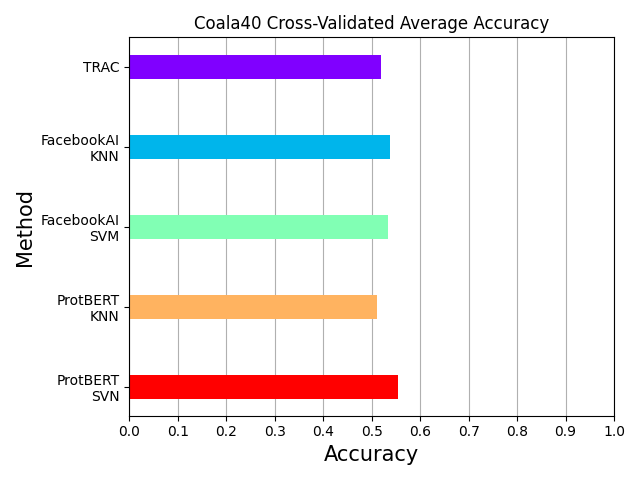
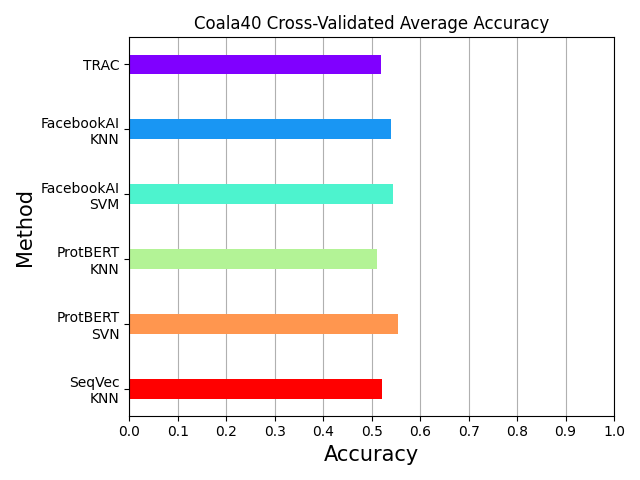
Adds evaluation script for the SeqVec model embeddings
-Updates FacebookAI script with minor adjustments
-Updates results document with most up-to-date evaluations
-Updates plots in the 'out' directory to include SeqVec data

diff --git a/seqvec/seqvec_embeddings_evaluation.py b/seqvec/seqvec_embeddings_evaluation.py
@@ -1,9 +1,7 @@
 #Code adapted from https://github.com/facebookresearch/esm/blob/master/examples/variant_prediction.ipynb
 # & https://github.com/nafizh/TRAC/blob/master/utils.py
 
-# This file runs 2 classifiers using the embeddings from the Facebook AI paper: ESM
-# The classifiers are sent through a grid search for the best model parameters and then 
-# passed through a 10-fold cross-validator with fold data printed out to the terminal
+# This file runs 2 classifiers using the embeddings from the SeqVec paper
 
 # CJ
 
@@ -89,17 +87,23 @@ ab_res_class_dict = {0:'BETA-LACTAM', 1:'AMINOGLYCOSIDE', 2:'TETRACYCLINE', 3:'G
                      4:'PHENICOL', 5:'FOLATE-SYNTHESIS-INHABITOR', 6:'RIFAMYCIN', 7:'TRIMETHOPRIM', 
                      8:'SULFONAMIDE', 9:'MACROLIDE', 10:'FOSFOMYCIN', 11:'QUINOLONE', 
                      12:'STREPTOGRAMIN', 13:'MACROLIDE/LINCOSAMIDE/STREPTOGRAMIN', 
-                     14: 'MULTIDRUG', 15: 'BACITRACIN', 16: 'MLS', 17: 'POLYMYXIN'} #Added 16 & 17 for COALA100
+                     14: 'MULTIDRUG', 15: 'BACITRACIN'}
 
 # Set paths for the 
-FASTA_PATH = os.path.join(os.path.dirname(os.path.abspath(__file__)), "out", "esm100.fa")
-EMB_PATH = os.path.join(os.path.dirname(os.path.abspath(__file__)), "embeds", "coala_100_reprs")
+FASTA_PATH = os.path.join(os.path.dirname(os.path.abspath(__file__)), "..", "data", "coala40.fa")
+EMB_PATH = os.path.join(os.path.dirname(os.path.abspath(__file__)), "embeds", "coala40.npz")
 EMB_LAYER = 34
+
+data = np.load(EMB_PATH)
+# for item in data.files:
+#     this_array = data[item]
+#     print(item)
 
 ys = []
 Xs = []
 for header, _seq in esm.data.read_fasta(FASTA_PATH):
     scaled_effect = header.split('|')[-1]
+    embedding_designation = header.split('|')[1]
     found = False
     for key, value in ab_res_class_dict.items():
         if scaled_effect == value:
@@ -109,10 +113,9 @@ for header, _seq in esm.data.read_fasta(FASTA_PATH):
     if not found:
         print("Could not find dictionary entry for label: "+scaled_effect)
         continue
-    file_name = header[1:].replace('|', '_')
-    fn = f'{EMB_PATH}/{file_name}.pt'
-    embs = torch.load(fn)
-    Xs.append(embs['mean_representations'][EMB_LAYER])
+    #Now search for the data in the embeddings file
+    embedding = torch.tensor(data[embedding_designation]).sum(dim=0)
+    Xs.append(embedding)
 Xs = torch.stack(Xs, dim=0).numpy()
 print(len(ys))
 print(Xs.shape)
@@ -138,8 +141,8 @@ svm_grid = {
     'gamma': ['scale'],
 }
 
-cls_list = [KNeighborsClassifier, SVC]
-param_grid_list = [knn_grid, svm_grid]
+cls_list = [SVC] #, SVC]
+param_grid_list = [svm_grid] #, svm_grid]
 
 
 result_list = []
@@ -159,7 +162,7 @@ for cls_name, param_grid in zip(cls_list, param_grid_list):
     grid_list.append(grid)
 
 result_list[0].sort_values('rank_test_score')[:5]
-result_list[1].sort_values('rank_test_score')
+# result_list[1].sort_values('rank_test_score')
 
 Xs_test_pca = pca.transform(Xs_test)
 for grid in grid_list:
